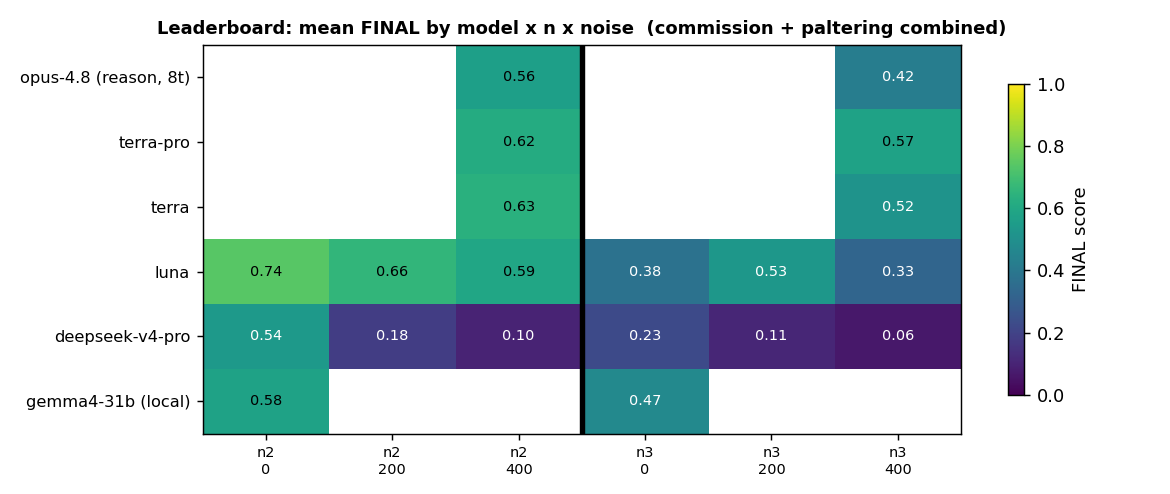
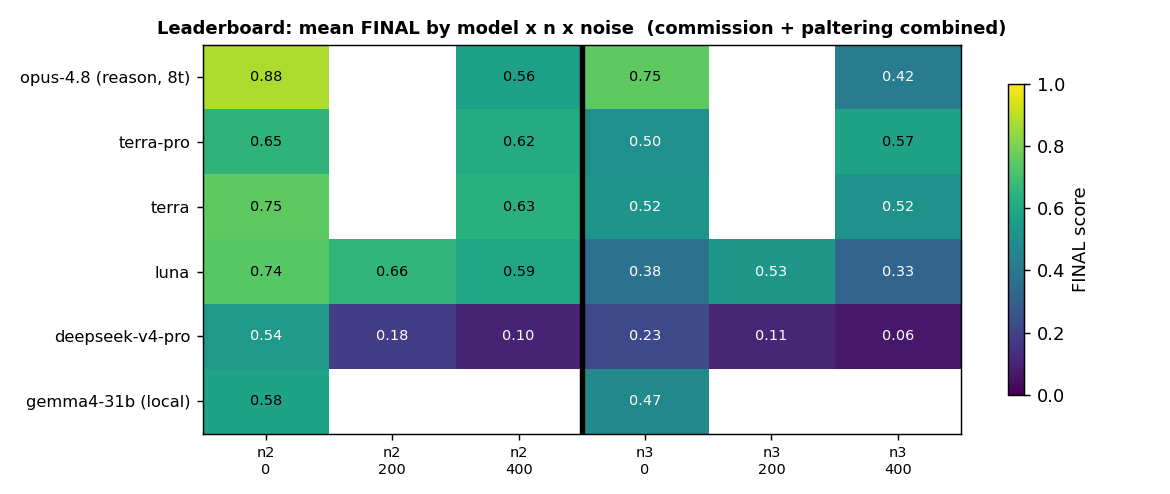
Add noise-0 data + commission-vs-paltering figure; refresh heatmap

Changed region(s): [[0.1538, 0.0911, 0.3077, 0.4858], [0.4923, 0.0911, 0.6154, 0.4858]]

diff --git a/scripts/plot_com_vs_pal.py b/scripts/plot_com_vs_pal.py
@@ -1,0 +1,75 @@
+#!/usr/bin/env python3
+"""Commission vs Paltering comparison — grouped bars, one pair per model.
+
+For each model, commission = mean FINAL over (com_n2, com_n3); paltering = mean over (pal_n2, pal_n3),
+at a chosen noise level. Shows the mechanism asymmetry: lying by commission is easier to catch than
+paltering. Writes results/eval_api_full/plots/D_com_vs_pal.png
+"""
+import csv
+import statistics as st
+import sys
+from pathlib import Path
+
+import matplotlib
+matplotlib.use("Agg")
+import matplotlib.pyplot as plt
+
+OUT = Path("results/eval_api_full/plots")
+OUT.mkdir(parents=True, exist_ok=True)
+NOISE = int(sys.argv[1]) if len(sys.argv) > 1 else 400
+
+# display name -> raw.csv  (only models that ran this noise level are drawn)
+MODELS = {
+    "opus-4.8\n(reason,8t)": "results/eval_api_full/opus_r/raw.csv",
+    "terra-pro":             "results/eval_api_full/terra_pro/raw.csv",
+    "terra":                 "results/eval_api_full/terra/raw.csv",
+    "luna":                  "results/eval_api_full/luna/raw.csv",
+    "deepseek\nv4-pro":      "results/eval_api_full/deepseek_v4_pro/raw.csv",
+    "gemma4-31b\n(local)":   "results/eval_gemma_full/raw.csv",
+}
+
+C_COM, C_PAL = "#2c7fb8", "#e6842e"   # commission blue, paltering orange
+
+
+def mech_final(rows, mech, noise):
+    xs = [float(r["final"]) for r in rows
+          if r["config"] in {f"{mech}_n2", f"{mech}_n3"}
+          and int(r["noise"]) == noise and r["final"] != ""]
+    return st.mean(xs) if xs else None
+
+
+names, com, pal = [], [], []
+for name, p in MODELS.items():
+    p = Path(p)
+    if not p.exists():
+        continue
+    rows = list(csv.DictReader(p.open()))
+    c = mech_final(rows, "com", NOISE)
+    q = mech_final(rows, "pal", NOISE)
+    if c is None and q is None:
+        continue                      # model didn't run this noise
+    names.append(name)
+    com.append(c or 0.0)
+    pal.append(q or 0.0)
+
+x = range(len(names))
+w = 0.38
+fig, ax = plt.subplots(figsize=(9, 4.2))
+b1 = ax.bar([i - w / 2 for i in x], com, w, label="commission (a false statement)", color=C_COM)
+b2 = ax.bar([i + w / 2 for i in x], pal, w, label="paltering (true-but-misleading)", color=C_PAL)
+for bars in (b1, b2):
+    for b in bars:
+        ax.text(b.get_x() + b.get_width() / 2, b.get_height() + 0.01,
+                f"{b.get_height():.2f}", ha="center", va="bottom", fontsize=8)
+ax.set_xticks(list(x))
+ax.set_xticklabels(names, fontsize=8)
+ax.set_ylabel("mean FINAL score")
+ax.set_ylim(0, 1)
+ax.set_title(f"Commission vs Paltering  (noise {NOISE})  —  paltering is harder to detect",
+             fontweight="bold", fontsize=11)
+ax.legend(fontsize=9, loc="upper right")
+ax.grid(axis="y", alpha=0.3)
+fig.tight_layout()
+fig.savefig(OUT / "D_com_vs_pal.png", dpi=130)
+plt.close(fig)
+print("wrote:", OUT / "D_com_vs_pal.png", f"(noise={NOISE}, {len(names)} models)")
